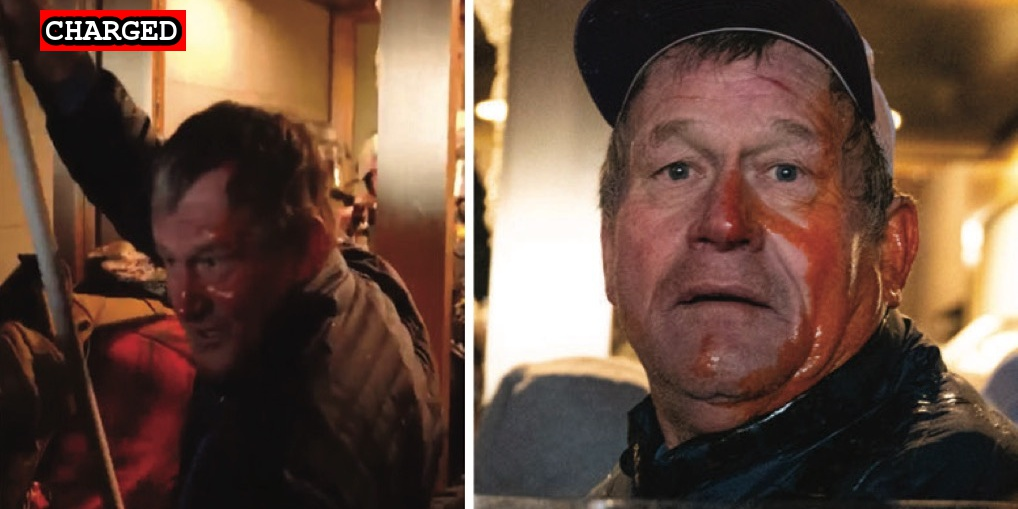
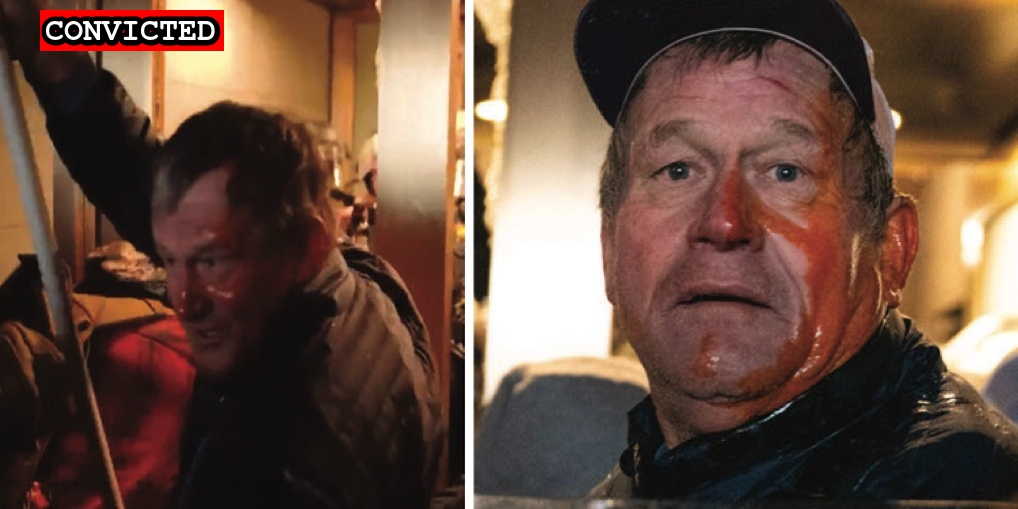
Guilty Pleas

Changed region(s): [[0.0609, 0.0, 0.2436, 0.1179]]

diff --git a/docs/_suspects/duke-wilson.md b/docs/_suspects/duke-wilson.md
@@ -3,13 +3,13 @@ name: Duke Wilson
 lastName: Wilson
 aka:
 residence: Idaho
-status: Charged
+status: Convicted
 date: 2021-04-12
 charged: 2021-04-12
 indicted:
-convicted: 
-sentenced: 
-dismissed: 
+convicted: 2021-09-07
+sentenced:
+dismissed:
 deceased:
 age: 66
 occupation:
@@ -29,6 +29,16 @@ author: seditiontrack
 layout: suspect
 published: true
 caseNumber: 1:21-mj-370
+charges:
+  - code: '18 USC § 111(a)(1) and (b)'
+    title: 'Assaulting, resisting, or impeding certain officers or employees (using a deadly or dangerous weapon)'
+    url: 'https://www.law.cornell.edu/uscode/text/18/111'
+    felony: true
+  - code: '18 USC § 1512(c)(2)'
+    title: 'Obstruction of Congress'
+    url: 'https://www.law.cornell.edu/uscode/text/18/1512'
+    felony: true
 ---
 - [News Report](https://www.idahopress.com/news/local/nampa-man-arrested-in-connection-to-deadly-us-capitol-riot/article_28a84847-82c8-5f4b-8c15-d7f745a63a93.html)
 - [Statement of Facts](https://www.justice.gov/usao-dc/case-multi-defendant/file/1387456/download)
+- [DOJ Press Release (Guilty Plea)](https://www.justice.gov/usao-dc/pr/idaho-man-pleads-guilty-assault-law-enforcement-and-obstruction-during-jan-6-capitol)

diff --git a/docs/_suspects/jeremy-sorvisto.md b/docs/_suspects/jeremy-sorvisto.md
@@ -3,13 +3,13 @@ name: Jeremy Sorvisto
 lastName: Sorvisto
 aka:
 residence: Michigan
-status: Charged
+status: Convicted
 date: 2021-04-05
 charged: 2021-04-05
 indicted:
-convicted: 
-sentenced: 
-dismissed: 
+convicted: 2021-09-03
+sentenced:
+dismissed:
 deceased:
 age: 37
 occupation:
@@ -29,8 +29,15 @@ author: seditiontrack
 layout: suspect
 published: true
 caseNumber: 1:21-cr-320
+videos:
+charges:
+- code: 18 USC § 5104(e)(2)(G)
+  title: Parading, Demonstrating or Picketing in a Capitol Building
+  url: https://www.law.cornell.edu/uscode/text/40/5104
+  felony: false
 ---
 - [News Report](https://www.metrotimes.com/news-hits/archives/2021/04/12/up-man-arrested-for-allegedly-participating-in-deadly-jan-6-riot)
 - [Complaint](https://www.justice.gov/usao-dc/case-multi-defendant/file/1385571/download)
-- [Statement of Facts](https://www.justice.gov/usao-dc/case-multi-defendant/file/1385576/download)
+- [Statement of Facts](https://www.justice.gov/opa/case-multi-defendant/file/1431046/download)
 - [Information](https://www.justice.gov/usao-dc/case-multi-defendant/file/1393006/download)
+- [Plea Agreement](https://www.justice.gov/opa/case-multi-defendant/file/1431041/download)
